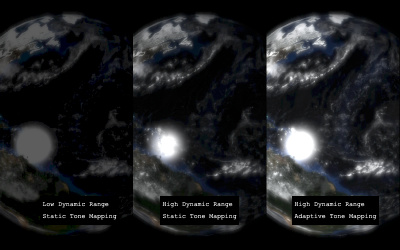
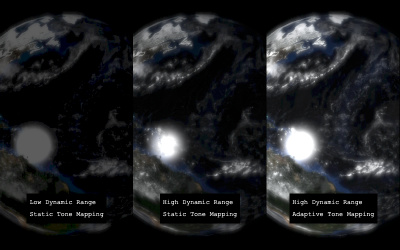
Examples: More clean up. (#21809)

Changed region(s): [[0.72, 0.756, 0.96, 0.924], [0.39, 0.756, 0.6, 0.924], [0.06, 0.756, 0.3, 0.924]]

diff --git a/examples/webgl_shaders_tonemapping.html b/examples/webgl_shaders_tonemapping.html
@@ -6,11 +6,19 @@
 		<meta name="viewport" content="width=device-width, user-scalable=no, minimum-scale=1.0, maximum-scale=1.0">
 		<link type="text/css" rel="stylesheet" href="main.css">
 		<style>
-			.label {
-				background-color: black;
+			#labels {
 				position: absolute;
-				z-index: 100;
-				padding: 5px
+				display: grid;
+				grid-template-columns: 1fr 1fr 1fr;
+				justify-items: center;
+				align-items: end;
+				height: 100%;
+				width: 100%;
+			}
+			#labels > div {
+				background-color: black;
+				padding: 6px;
+				margin-bottom: 20%;
 			}
 		</style>
 	</head>
@@ -19,20 +27,21 @@
 		<div id="d">
 			<div id="info">
 				<a href="https://threejs.org" target="_blank" rel="noopener">three.js</a> webgl demo :
-				Earth diffuse and city lights by <a href="http://seanward.org" target="_blank" rel="noopener">Sean Ward</a> :
-
+				Earth diffuse and city lights by <a href="http://seanward.org" target="_blank" rel="noopener">Sean Ward</a>
 			</div>
-			<div class="label" style="position: absolute;left: 10%;bottom: 10%;">
-				Low Dynamic Range<br/>
-				Static Tone Mapping
-			</div>
-			<div class="label" style="position: absolute;left: 40%;bottom: 10%;">
-				High Dynamic Range<br/>
-				Static Tone Mapping
-			</div>
-			<div class="label" style="position: absolute;left: 73%;bottom: 10%;">
-				High Dynamic Range<br/>
-				Adaptive Tone Mapping
+			<div id="labels">
+				<div>
+					Low Dynamic Range<br/>
+					Static Tone Mapping
+				</div>
+				<div>
+					High Dynamic Range<br/>
+					Static Tone Mapping
+				</div>
+				<div>
+					High Dynamic Range<br/>
+					Adaptive Tone Mapping
+				</div>
 			</div>
 		</div>
 

diff --git a/examples/webgl2_multiple_rendertargets.html b/examples/webgl2_multiple_rendertargets.html
@@ -4,24 +4,7 @@
 		<title>three.js webgl - Multiple Render Targets</title>
 		<meta charset="utf-8">
 		<meta name="viewport" content="width=device-width, user-scalable=no, minimum-scale=1.0, maximum-scale=1.0">
-		<style>
-			body {
-				font-family: Monospace;
-				background-color: #000;
-				color: #fff;
-				margin: 0px;
-				overflow: hidden;
-			}
-			#info {
-				color: #fff;
-				position: absolute;
-				top: 10px;
-				width: 100%;
-				text-align: center;
-				display:block;
-			}
-			#info a, .button { color: #f00; font-weight: bold; text-decoration: underline; cursor: pointer }
-		</style>
+		<link type="text/css" rel="stylesheet" href="main.css">
 
 		<!-- Write to G-Buffer -->
 		<script id="gbuffer-vert" type="x-shader/x-vertex">

diff --git a/examples/misc_exporter_draco.html b/examples/misc_exporter_draco.html
@@ -5,16 +5,6 @@
 		<meta charset="utf-8">
 		<meta name="viewport" content="width=device-width, user-scalable=no, minimum-scale=1.0, maximum-scale=1.0">
 		<link type="text/css" rel="stylesheet" href="main.css">
-		<style>
-			body {
-				background-color: #a0a0a0;
-				color: #fff;
-			}
-
-			a {
-				color: #0f0;
-			}
-		</style>
 	</head>
 	<body>
 		<div id="info">
